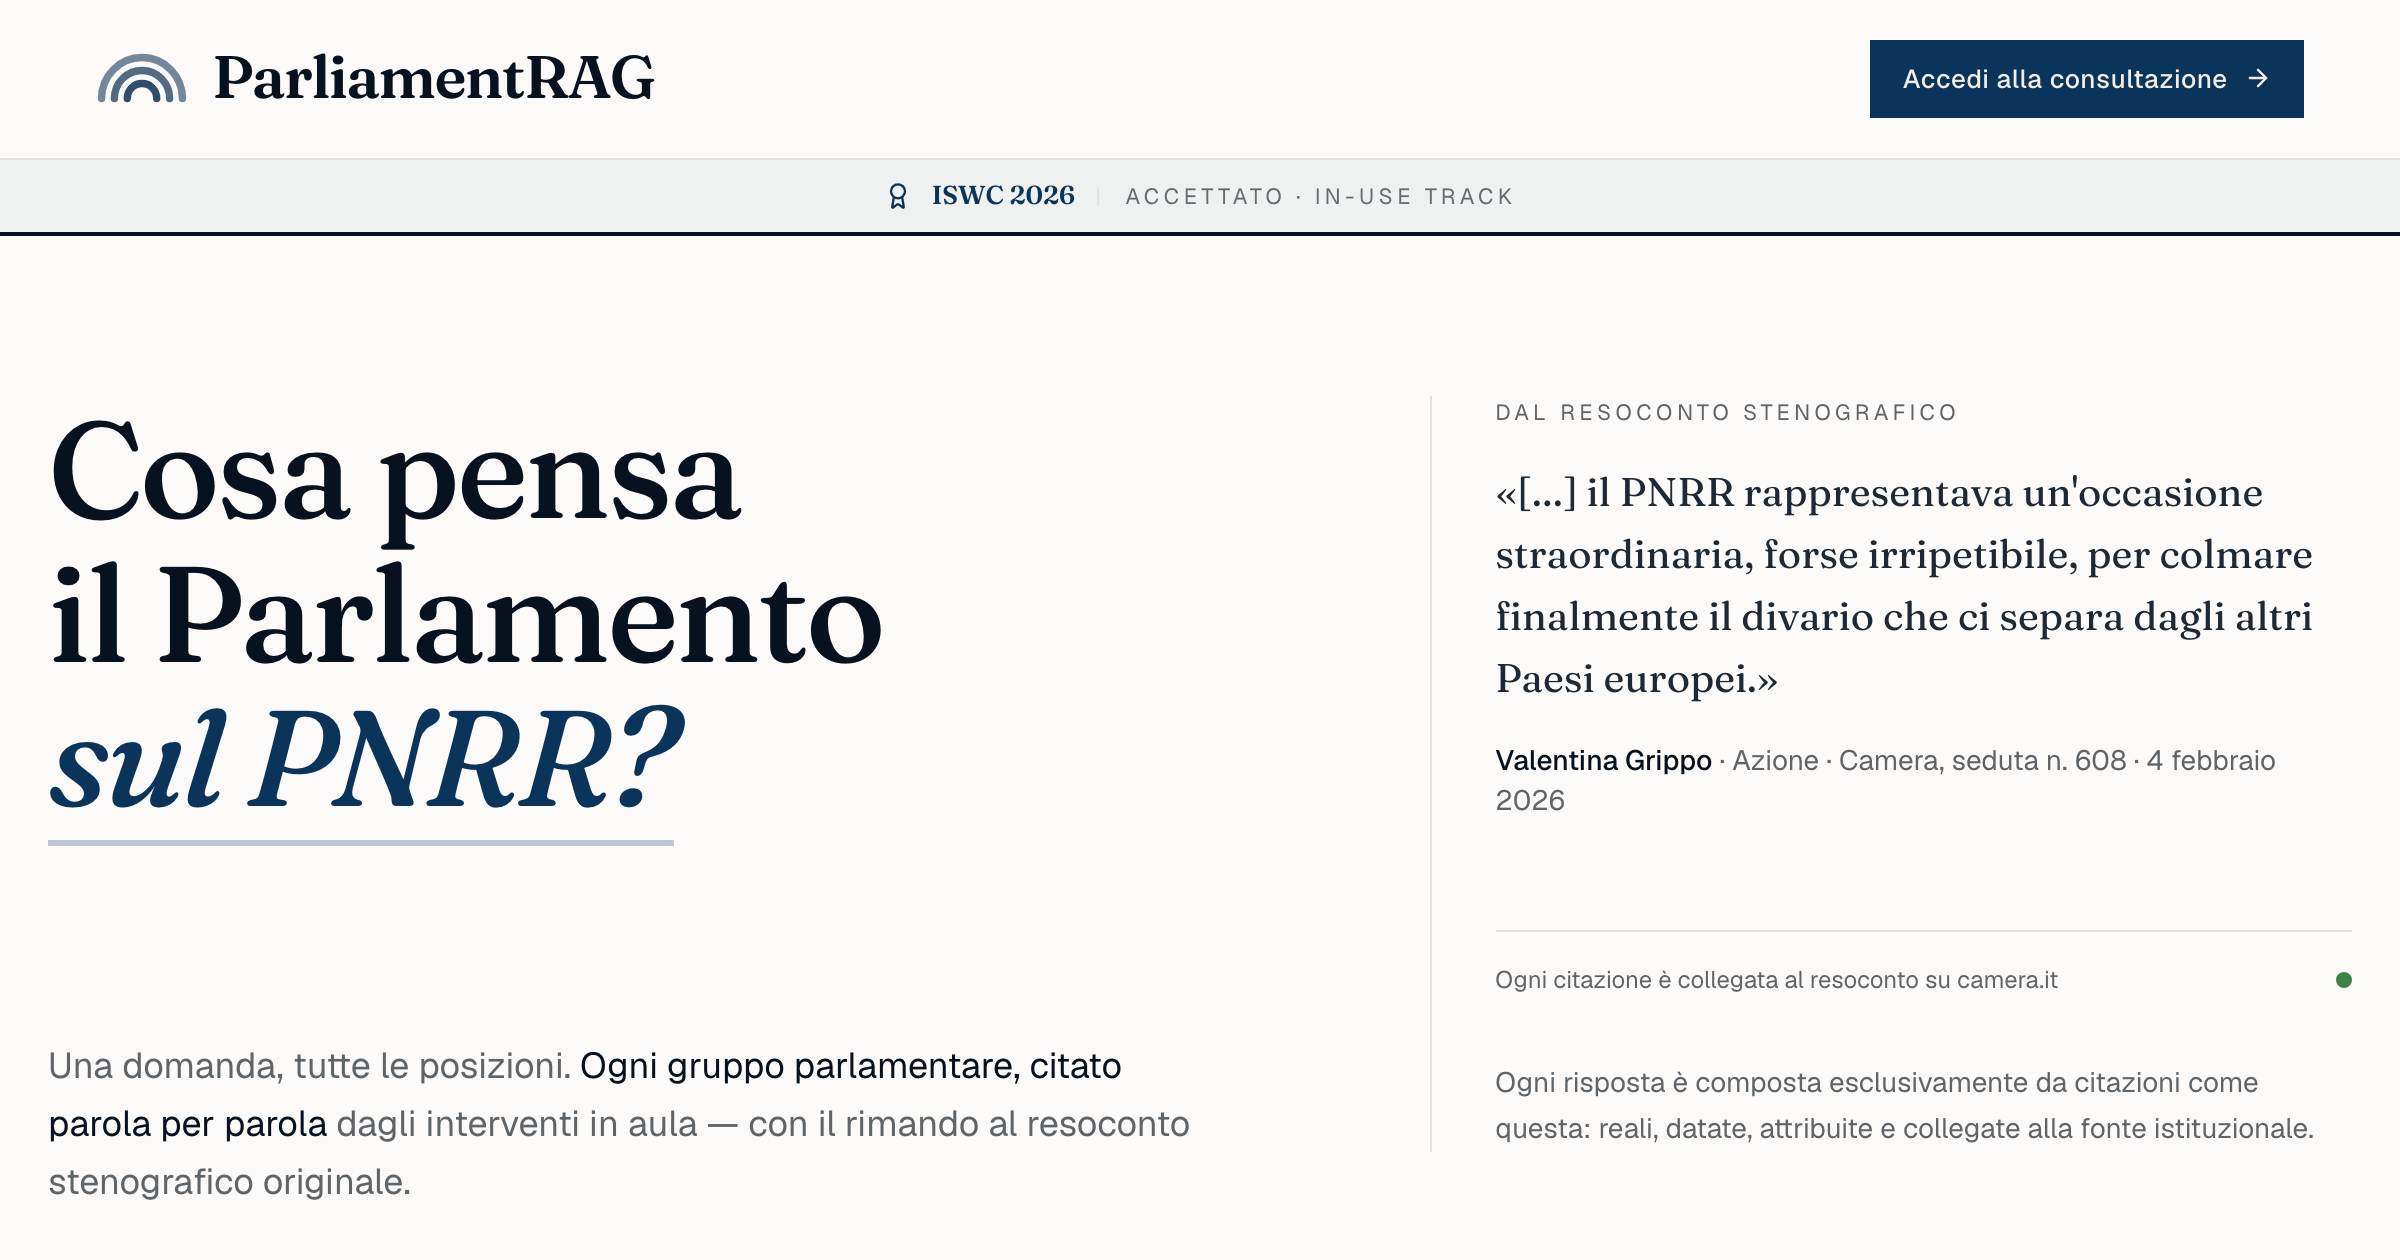
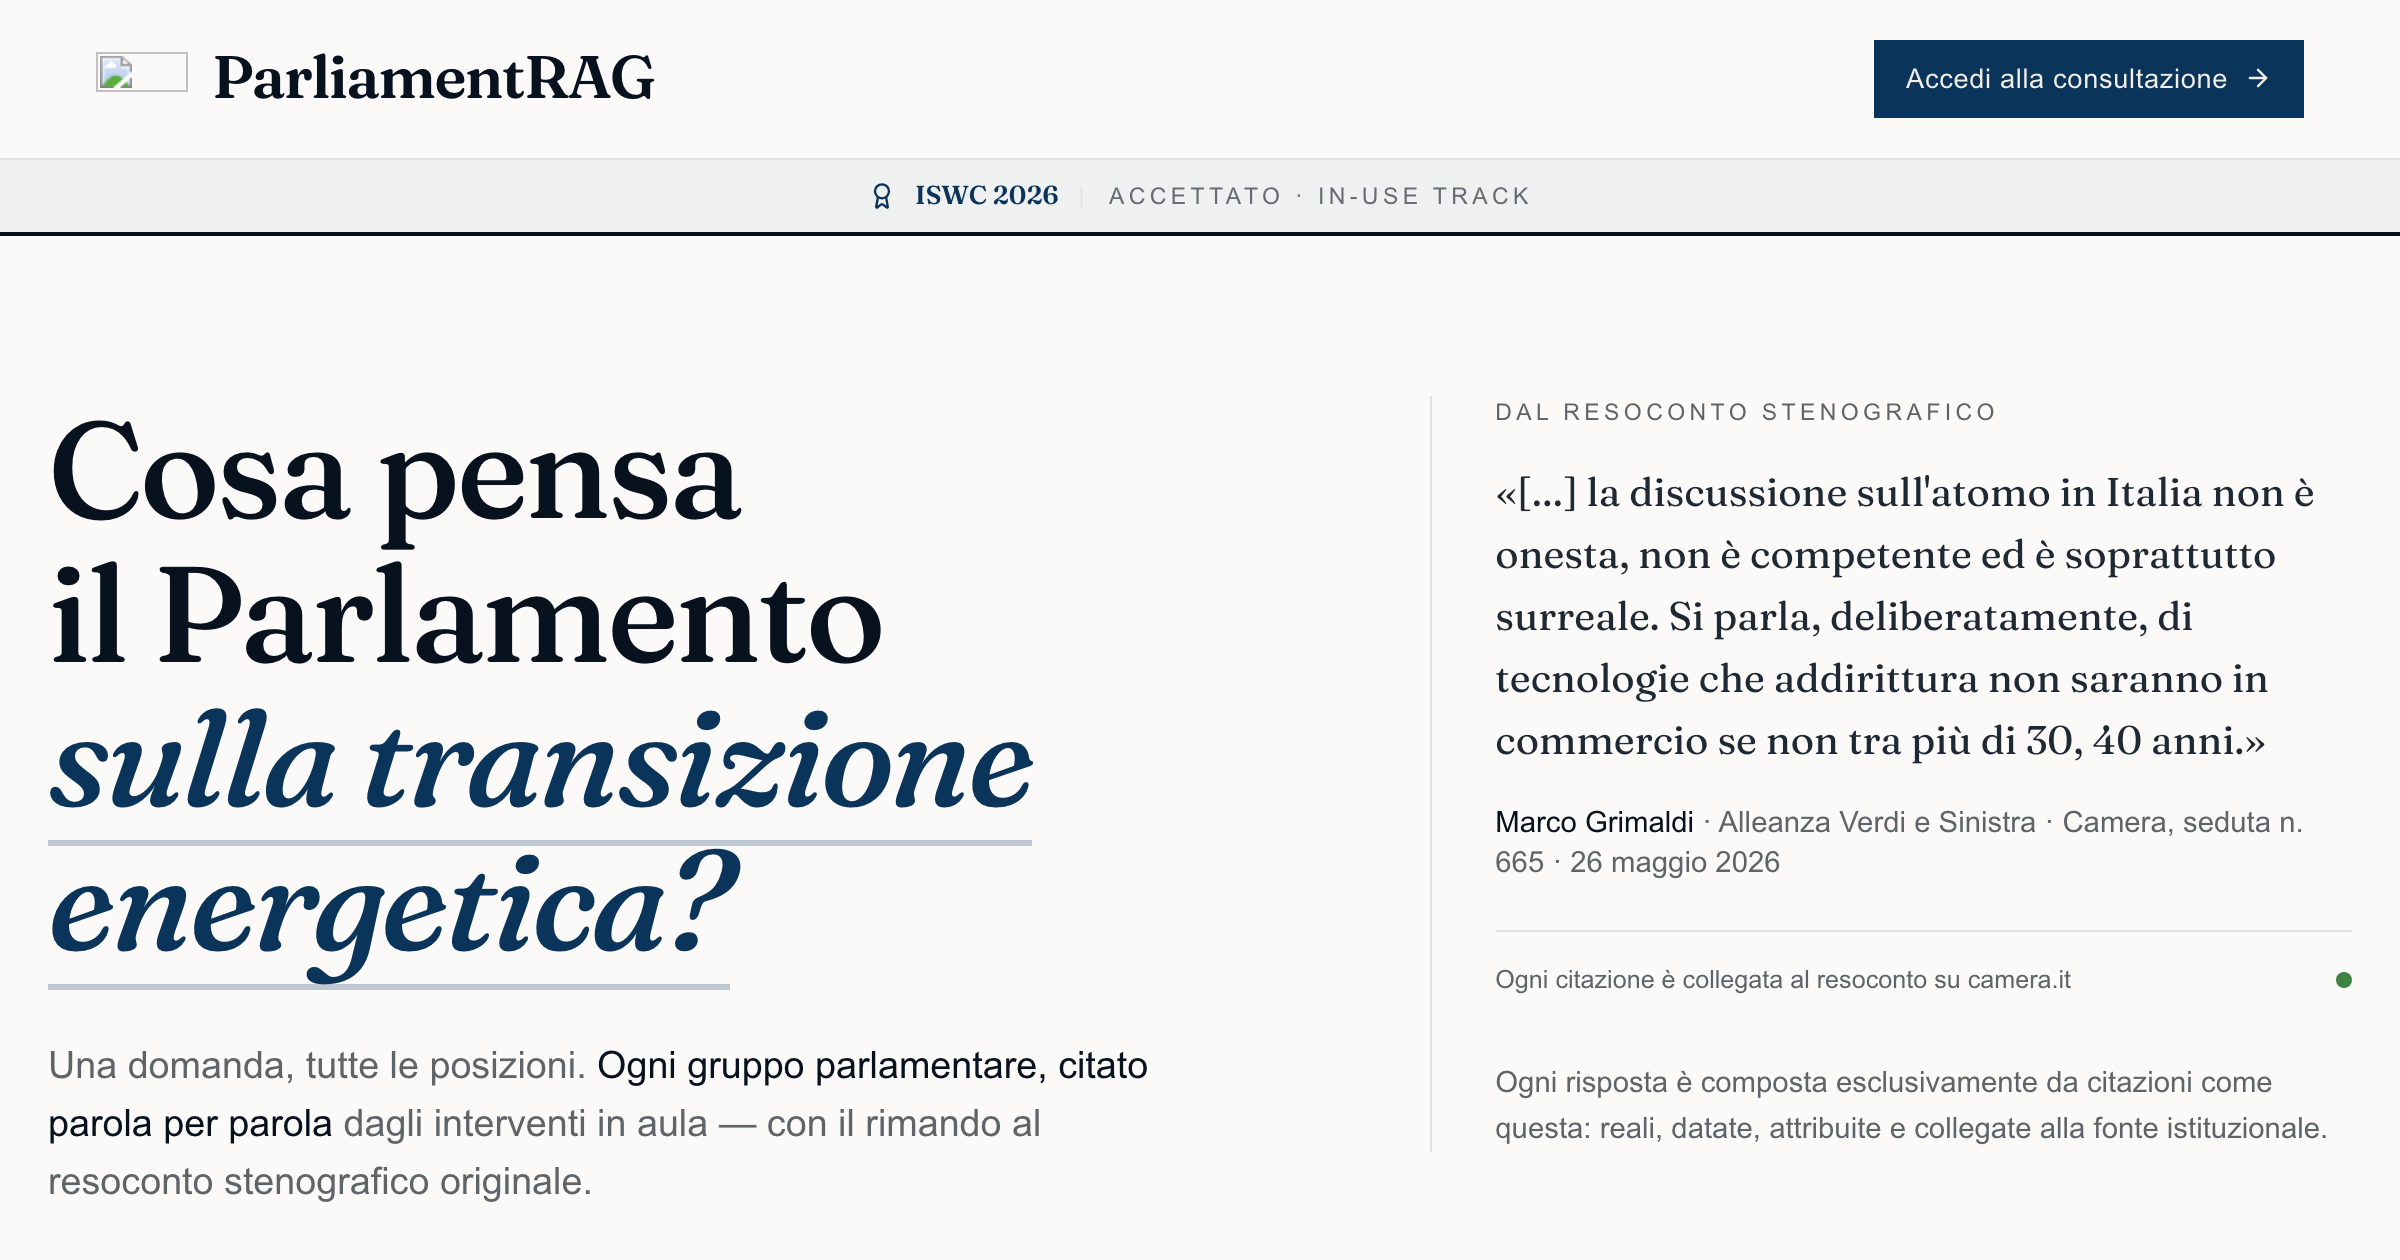
fix(seo+data): crop OG solo sulla landing; data Zenodo su /data
OG: il crop della barra data valeva solo per la landing (unica con
'DATI AGGIORNATI AL ...'); su /home e /data tagliava l'header. Ora crop
per-route (34px solo /), e attesa networkidle così il grafo su /data
viene catturato.

/data: accanto al DOI Zenodo ora c'è 'aggiornato al 26 luglio 2026',
costante ZENODO_UPDATED riscritta da build/zenodo_update.py alla
pubblicazione (tiene il passo con l'archivio, non con make update-data).

diff --git a/src/app/data/page.tsx b/src/app/data/page.tsx
@@ -21,6 +21,10 @@ const fraunces = Fraunces({
    The paper cites the version DOI (…21560332) for reproducibility. */
 const ZENODO_DOI = "10.5281/zenodo.21560331";
 const ZENODO_URL = `https://doi.org/${ZENODO_DOI}`;
+// Date the dataset was last published to Zenodo. Rewritten by
+// build/zenodo_update.py on a successful publish, NOT by make update-data:
+// the archive is a frozen snapshot and lags the live graph on purpose.
+const ZENODO_UPDATED = "2026-07-26";
 
 /* ── Graph numbers — live from /api/data/stats, static fallback ── */
 const STATS = [
@@ -460,7 +464,14 @@ export default function DataPage() {
             >
               Zenodo · DOI {ZENODO_DOI}
               <ArrowUpRight className="h-3 w-3 self-center" />
-            </a>
+            </a>{" · "}
+            {t("updatedAt", {
+              date: new Intl.DateTimeFormat(locale, {
+                day: "numeric",
+                month: "long",
+                year: "numeric",
+              }).format(new Date(`${ZENODO_UPDATED}T12:00:00`)),
+            })}
           </p>
         </div>
       </section>
